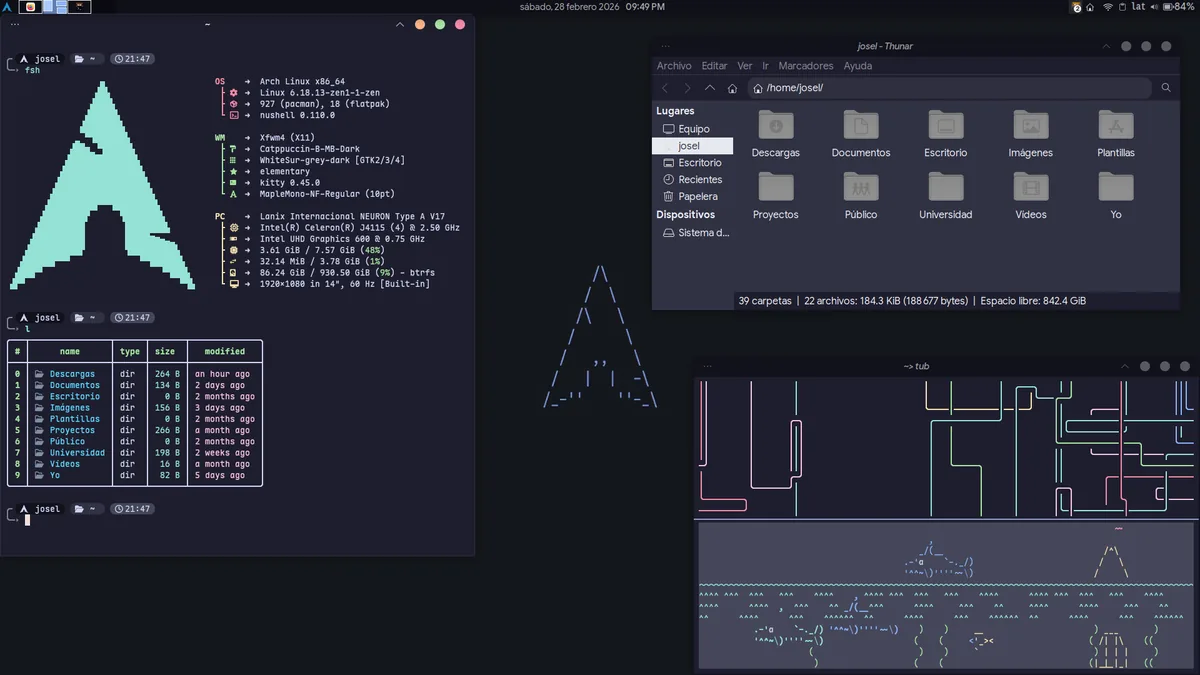
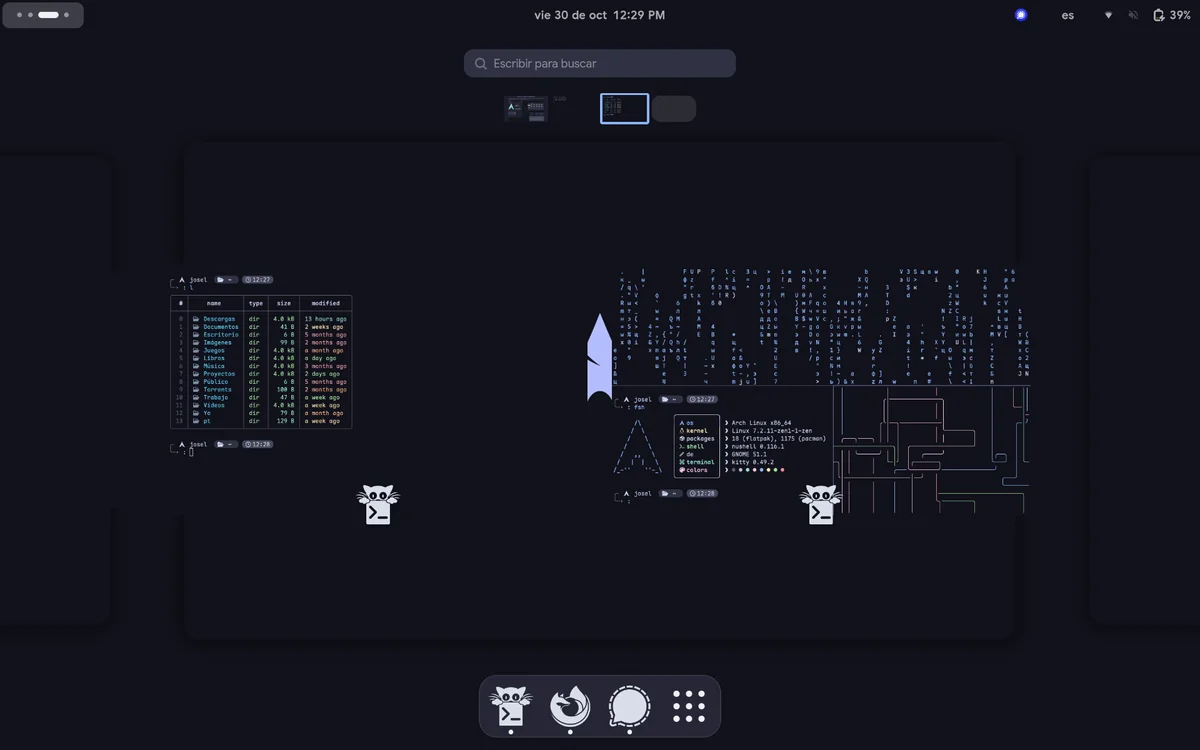
feat(portfolio): la captura real de GNOME y el meme bajo la imagen

diff --git a/index.html b/index.html
@@ -80,7 +80,7 @@
       content="https://portfolio.jose-luis-rs.workers.dev/images/showcase.webp"
     />
     <meta property="og:image:width" content="1200" />
-    <meta property="og:image:height" content="675" />
+    <meta property="og:image:height" content="750" />
     <meta
       property="og:image:alt"
       content="Escritorio Arch Linux con Catppuccin, neofetch y mis herramientas: así trabajo"
@@ -914,10 +914,6 @@
             >
           </li>
         </ul>
-        <blockquote class="quote" lang="es">
-          "Todo aprendizaje lleva tiempo, sudor y esfuerzo. Es un largo camino pero no imposible de
-          cursar"
-        </blockquote>
       </section>
 
       <!-- ? Yo: escritorio real, con neofetch y las herramientas que uso a diario -->
@@ -935,13 +931,14 @@
         <img
           class="yo-shot"
           src="/images/showcase.webp"
-          alt="Escritorio de Arch Linux: neofetch con el logo de la distribución, una terminal con un listado de archivos, un explorador gráfico y dos ventanas con arte generado por la terminal"
-          data-i18n-en="Arch Linux desktop: neofetch with the distribution logo, a terminal listing files, a graphical file manager and two windows of terminal-generated art"
+          alt="Escritorio de Arch Linux en GNOME: el resumen de actividades con las ventanas abiertas, una terminal con un listado de archivos, arte generado en la terminal y neofetch con el logo de la distribución"
+          data-i18n-en="Arch Linux desktop on GNOME: the activities overview with the open windows, a terminal listing files, terminal-generated art and neofetch with the distribution logo"
           width="1200"
-          height="675"
+          height="750"
           loading="lazy"
           decoding="async"
         />
+        <blockquote class="quote" lang="en">"I use arch btw!"</blockquote>
         <ul class="yo-datos">
           <li>
             <strong data-i18n-en="System:">Sistema:</strong>

diff --git a/src/i18n-variants.test.ts b/src/i18n-variants.test.ts
@@ -107,7 +107,7 @@ describe("variante inglesa (S11)", () => {
     const imagen = doc.querySelector("img.yo-shot")!;
 
     expect(imagen.getAttribute("alt")).toBe(
-      "Arch Linux desktop: neofetch with the distribution logo, a terminal listing files, a graphical file manager and two windows of terminal-generated art",
+      "Arch Linux desktop on GNOME: the activities overview with the open windows, a terminal listing files, terminal-generated art and neofetch with the distribution logo",
     );
     expect(imagen.getAttribute("alt")).not.toContain("Escritorio");
   });
